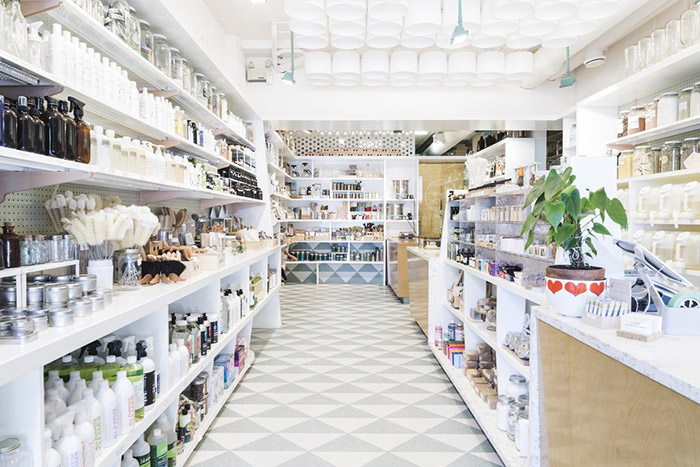
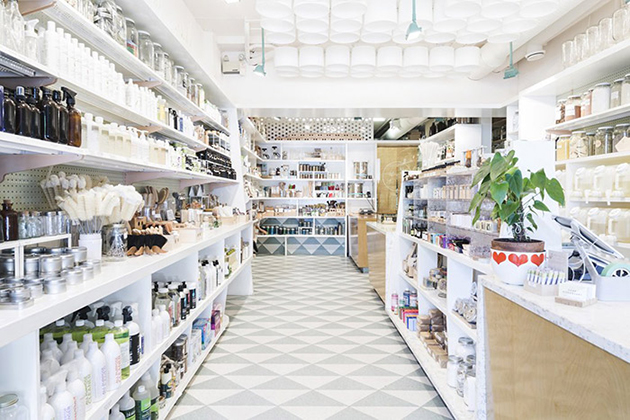
Fixed location html

diff --git a/location.html b/location.html
@@ -49,7 +49,7 @@
 			<div class="location_grid">
 				<div class="content1">
 					<div class="location1">
-						<img src="img2/store4.png" width="100%" alt="shop 1 location image">
+						<img src="img2/store4.png" alt="shop 1 location image">
 					</div>
 					<div class="address1">
 						<h3>Willowbrae Mall</h3>
@@ -67,7 +67,7 @@
 						</p>
 					</div>
 					<div class="location2">
-						<img src="img2/store2.jpg" width="100%" alt="shop 1 location image">
+						<img src="img2/store2.jpg" alt="shop 1 location image">
 					</div>
 				</div>
 
